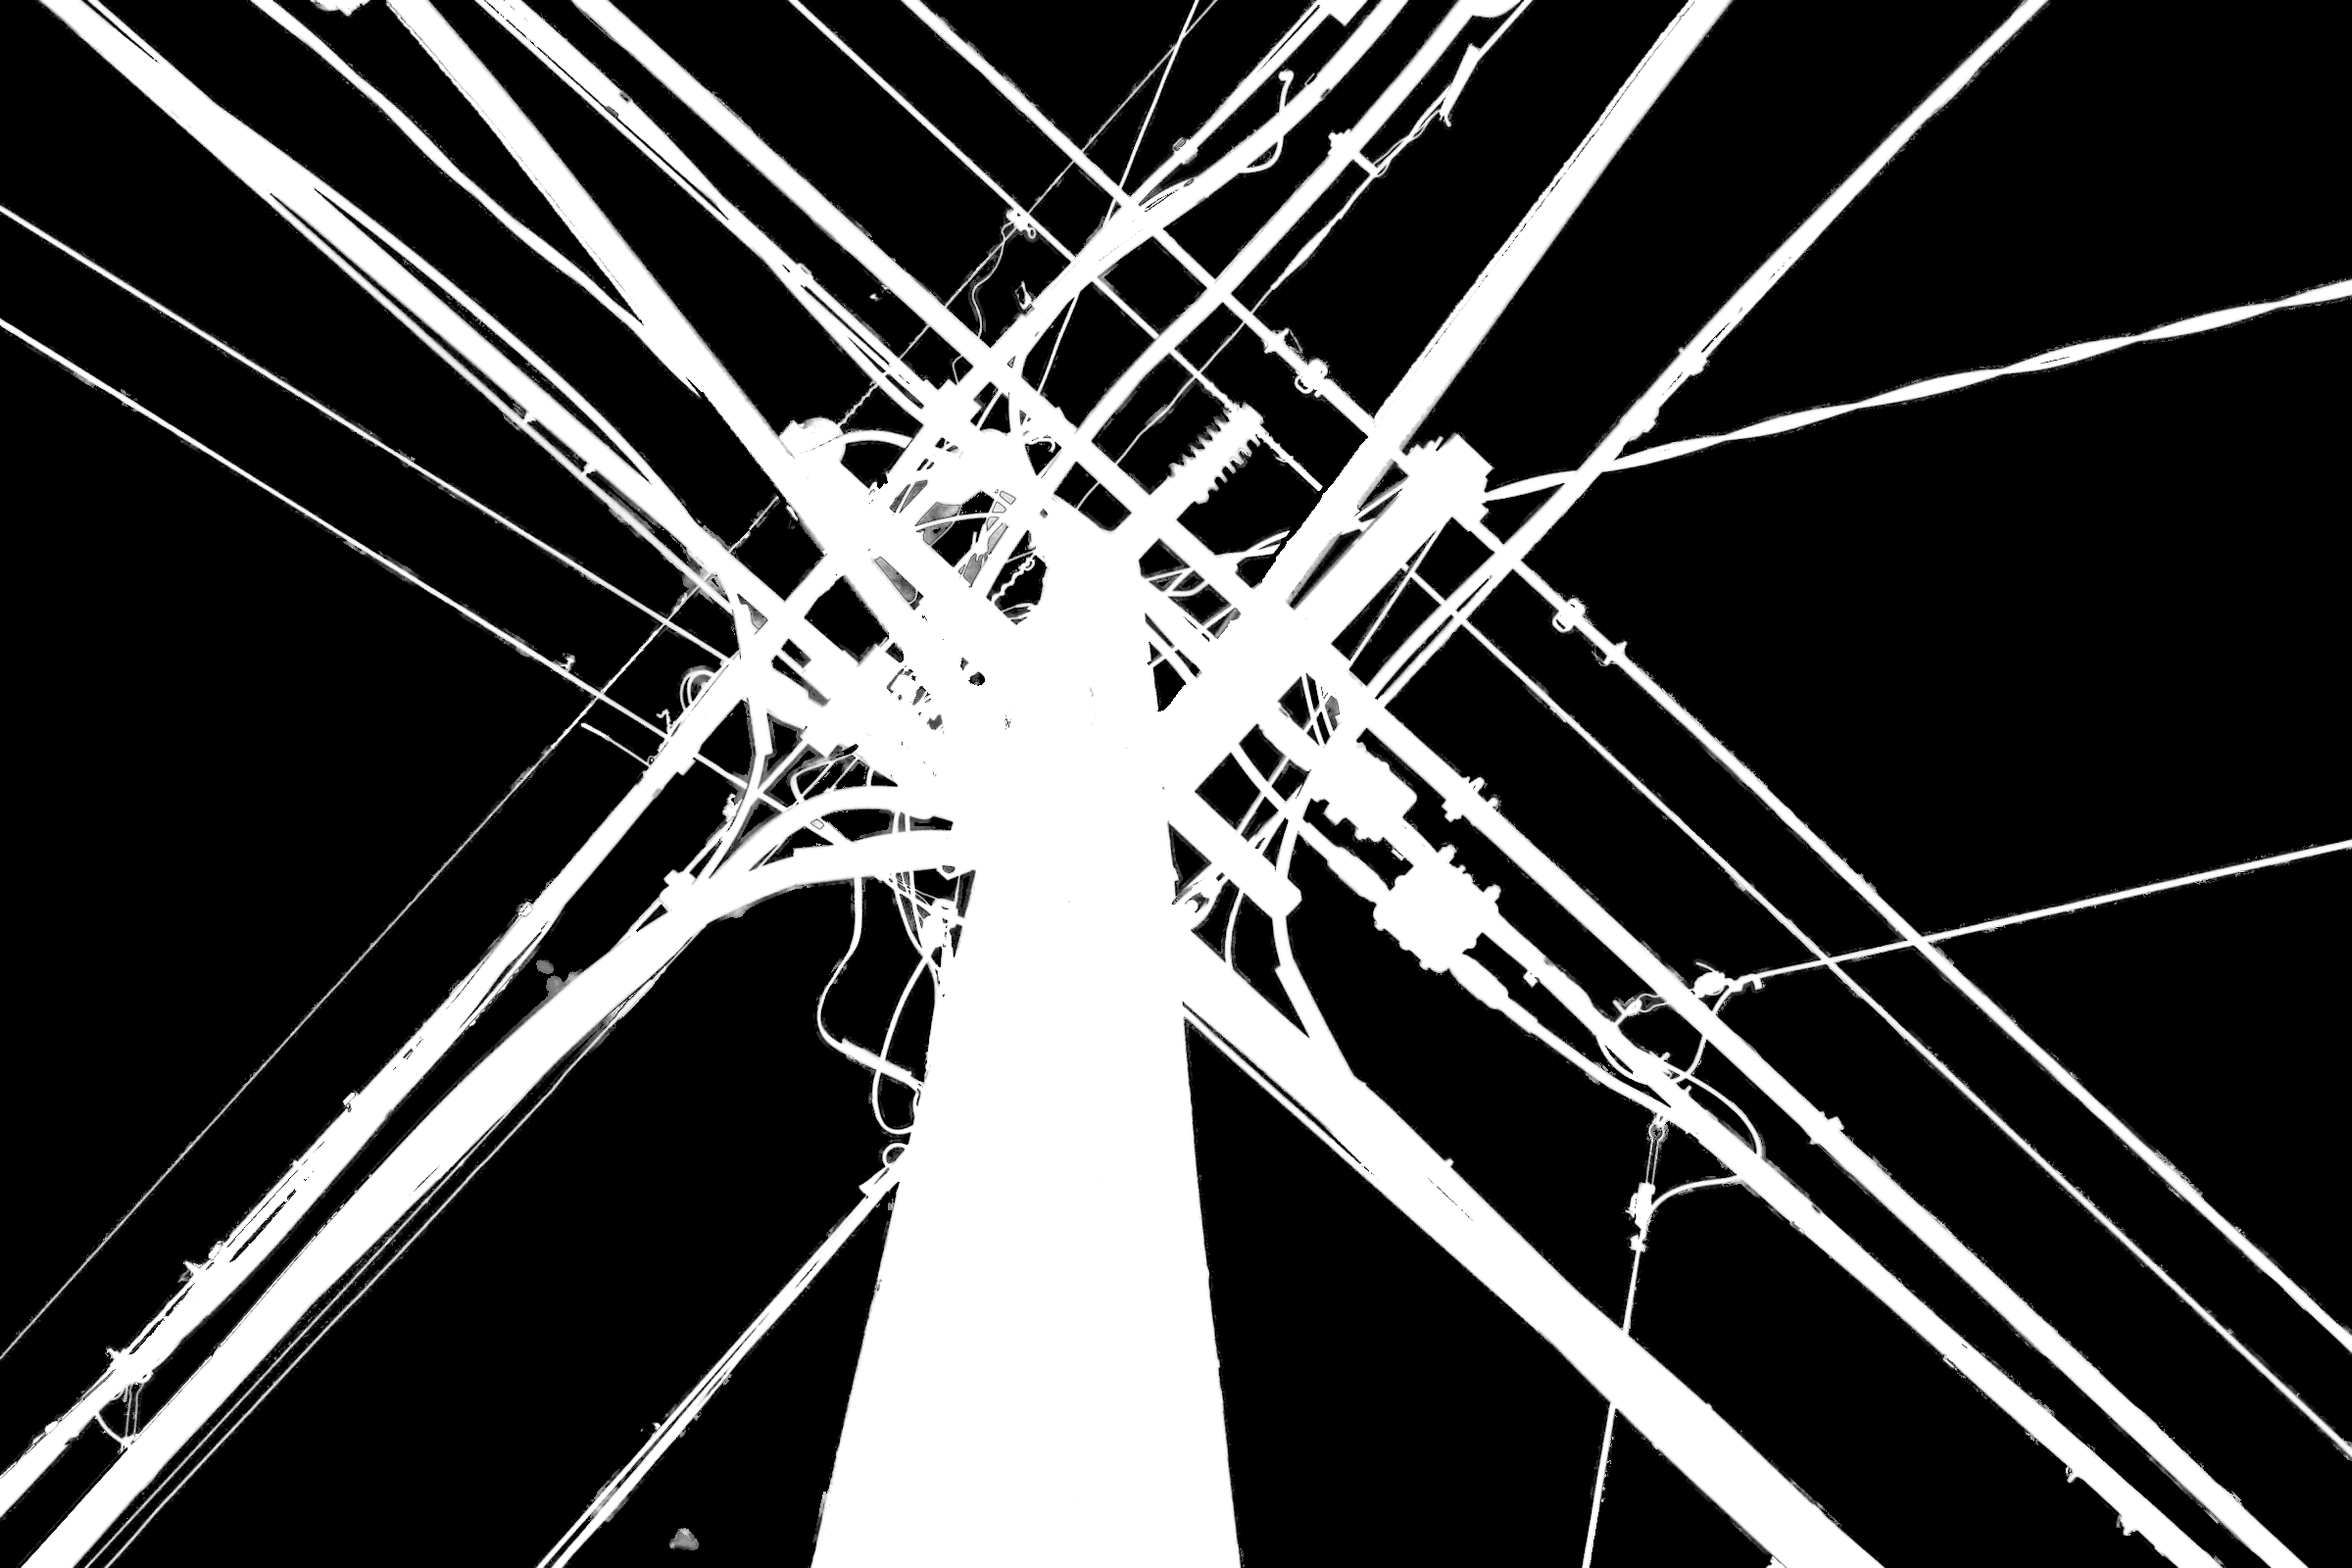
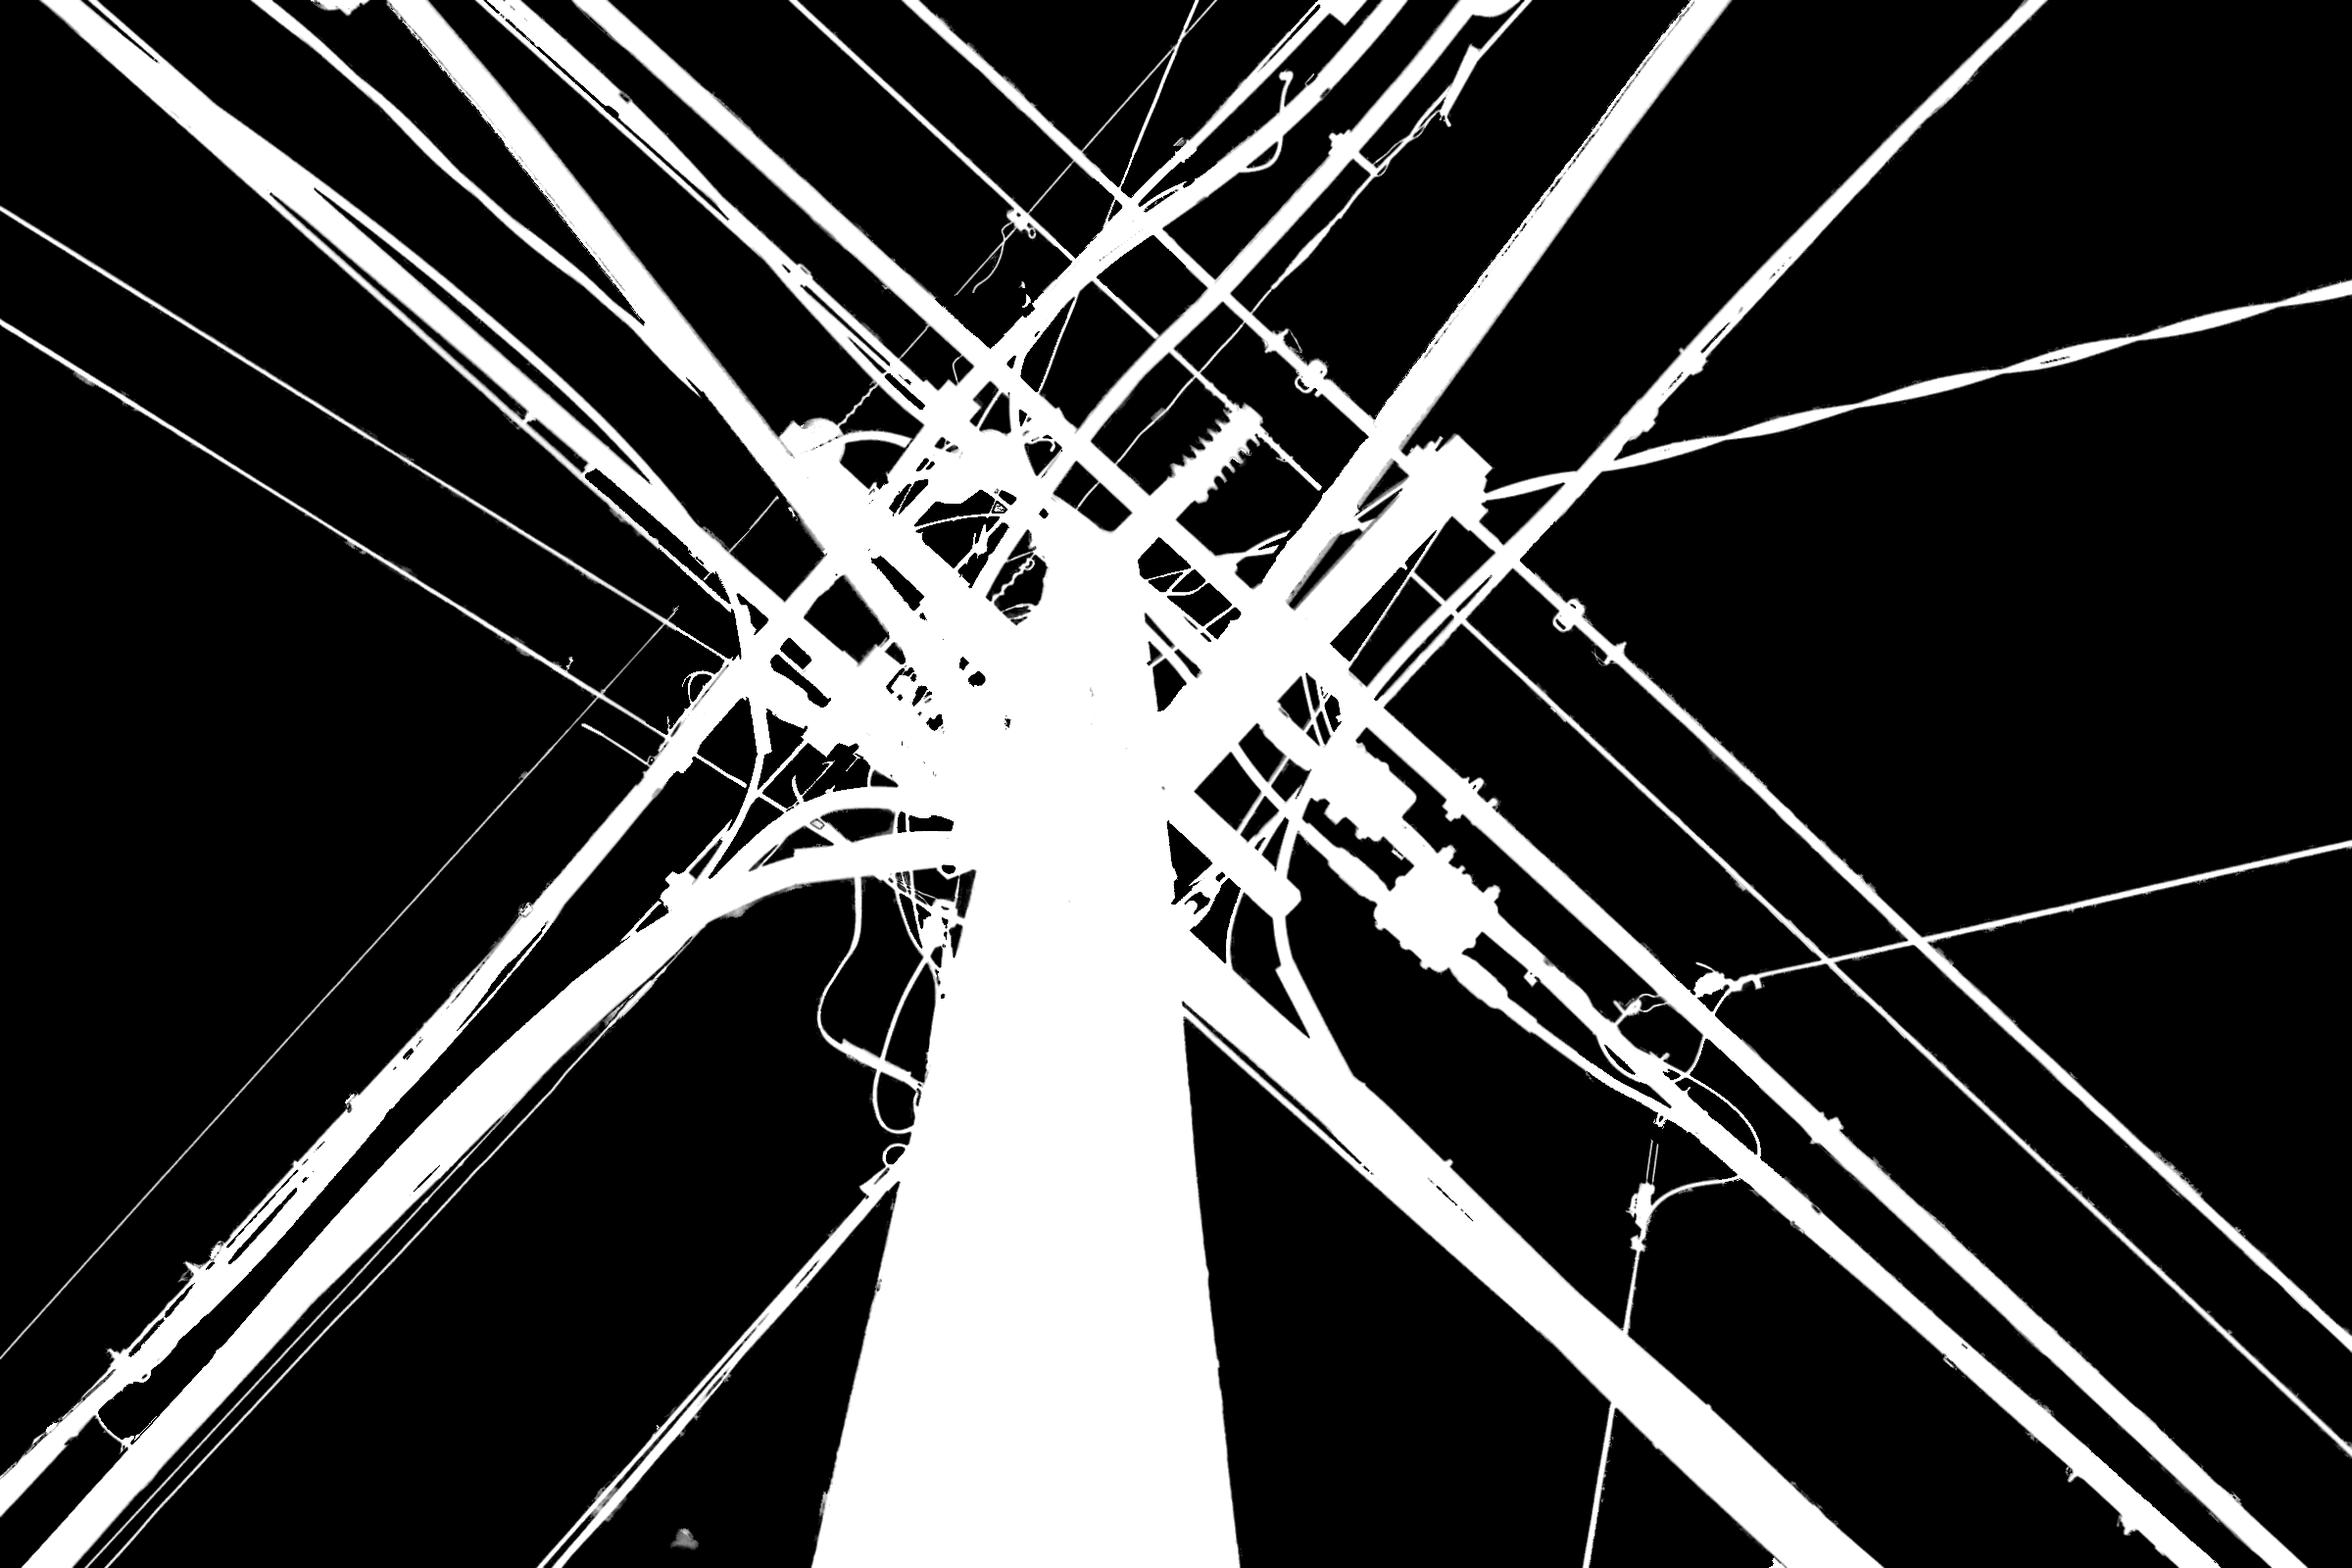
Lab: climb develop round 3
Claude-Session: https://claude.ai/code/session_01RqENhngNCzDFmJWDZueXGV

diff --git a/tools/depth/bakes/develop/bake.py b/tools/depth/bakes/develop/bake.py
@@ -48,7 +48,9 @@ Layers (2400x1600):
                  (I - B).(F - B) / |F - B|^2, with B the fill and F the local
                  structure colour (from dark core pixels only); the depth map
               decides only where to look; islands and sky-bright
-              "structure" dropped
+              "structure" dropped. --sky rewrites it cleaned
+              (clean_structure: floored at 0.15, choked, the knot's
+              slivers of sky dropped)
               key.png B, G: sky key, 0 far .. 1 near, 16 bit (B high byte,
                  G low): cloud density blurred to the scale of the masses, a
                  third distance by elevation, rank-equalised over the open
@@ -480,10 +482,12 @@ def write_sky_key(path, sky_key, key_r8):
 # reads as blurred blobs between the wires. --sky <photo> puts a photographed
 # cumulus sky behind the structure instead (SKY_SRC, CC0), graded to the same
 # radial cobalt, and leaves the structure, its matte and its depth key exactly
-# as they are: the structure is plate - (1 - alpha) * fill, premultiplied,
-# taken from the layers as first shipped (kept in WK as orig-*.webp), and the
-# new plate is that over the new sky. The sky key is measured again from the
-# new cloud.
+# as they are: the structure, premultiplied, is taken out of the photograph
+# against its own sky and cleaned (clean_structure: decontaminated, the matte
+# choked, the knot's slivers dropped), from the matte as first shipped (kept
+# in WK as orig-alpha.png with the other orig-* layers; OUT's alpha.png is
+# rewritten cleaned), and the new plate is that over the new sky. The sky key
+# is measured again from the new cloud.
 #
 # The cloud is graded as cumulus in sun is lit, as volumes (_cumulus_light):
 # each tower split by a large-radius optical depth towards the zenith and by
@@ -1176,17 +1180,192 @@ if "--reach" in sys.argv:
     sys.exit(0)
 
 
+# --- the structure layer, cleaned ----------------------------------------
+# plate - (1 - alpha) x fill takes the structure out against the LaMa fill,
+# which a few pixels into the matte is not the sky that was there: every
+# soft edge kept a share of the old pale cerulean (cyan outlines round each
+# cable, laid over the new cobalt), the faint tail of the matte drew ghost
+# wires across the open sky, and the sky cells between the crossarm members
+# that the matte half-covered came through as white and cyan slivers. So:
+#  1. each soft pixel is decontaminated against the photograph's own sky
+#     round it (B_orig: a normalised convolution of the clear pixels, fine
+#     to coarse, in log light), F = (I - (1 - a) B_orig) / a, and F is held
+#     inside the colour range of the opaque structure round it (per channel,
+#     and no bluer), so no sky is carried into the layer;
+#  2. the matte is choked: alpha under CLEAN_FLOOR goes to 0 and the rest is
+#     stretched back to 1, and the edges of members wider than a cable pair
+#     are pulled in by about a pixel;
+#  3. inside the knot, islands of matte under CLEAN_MIN_AREA px and soft
+#     cells whose decontaminated colour is bluer or lighter than the steel
+#     round them (sky seen between members) are dropped.
+CLEAN_FLOOR = 0.15
+CLEAN_MIN_AREA = 40
+CLEAN_MIN_SPECK = 12
+CLEAN_KNOT_SIGMA, CLEAN_KNOT_LEVEL = 40, 0.4
+
+
+def _orig_sky(I, alpha):
+    """The photograph's own sky round the structure (linear): normalised
+    convolution of its clear pixels, coarse to fine, in log light."""
+    clear = ~(cv2.dilate(_u8(alpha > 0.01), disk(2)) > 0)
+    kf = clear.astype(np.float32)
+    lg = np.log(np.maximum(I, 1e-4)).astype(np.float32)
+    B = None
+    for sg in (96, 48, 24, 12, 6, 3, 1.5):
+        num = cv2.GaussianBlur(lg * kf[..., None], (0, 0), sg)
+        den = cv2.GaussianBlur(kf, (0, 0), sg)
+        est = num / np.maximum(den, 1e-6)[..., None]
+        if B is None:
+            B = est
+            continue
+        k = np.clip(den / 0.25, 0, 1)[..., None]
+        B = B * (1 - k) + est * k
+    return np.where(clear[..., None], I, np.exp(B)).astype(np.float32)
+
+
+def _local_range(v, solid, radii=(3, 8), far=None):
+    """Per pixel, the min and max of v (HxW) over the solid pixels within the
+    first radius that finds any; past the last, 0 .. far (HxW)."""
+    lo = np.full(v.shape, np.nan, np.float32)
+    hi = np.full(v.shape, np.nan, np.float32)
+    big = np.float32(1e4)
+    for r in radii:
+        k = disk(r)
+        mx = cv2.dilate(np.where(solid, v, -big).astype(np.float32), k)
+        mn = -cv2.dilate(np.where(solid, -v, -big).astype(np.float32), k)
+        got = (mx > -big / 2) & np.isnan(hi)
+        hi[got], lo[got] = mx[got], mn[got]
+    rest = np.isnan(hi)
+    hi[rest] = far[rest]
+    lo[rest] = np.minimum(0.0, far[rest])
+    return lo, hi
+
+
+def clean_structure(I, alpha, luma, say=print):
+    """I: the photograph (linear, as the matte was pulled from); alpha: the
+    matte. Returns (pm, alpha): the premultiplied structure and its matte."""
+    h, w = alpha.shape
+    B = _orig_sky(I, alpha)
+    a3 = alpha[..., None]
+    Fu = (I - (1 - a3) * B) / np.maximum(a3, 1e-3)
+    Fu = np.where(a3 >= 0.98, I, Fu)
+    # the opaque structure's colour range round each pixel
+    solid = cv2.erode(_u8(alpha >= 0.95), disk(1)) > 0
+    solid |= alpha >= 0.995
+    blu = I[..., 2] - 0.5 * (I[..., 0] + I[..., 1])
+    Y = I @ luma
+    # (a wire with no opaque core of its own, far from any: no lighter than
+    # the structure's own colour pushed out to it, a shade over)
+    Floc = pushpull(I, solid.astype(np.float32)) * 1.25
+    F = np.empty_like(Fu)
+    for c in range(3):
+        lo, hi = _local_range(I[..., c], solid, far=Floc[..., c])
+        F[..., c] = np.clip(Fu[..., c], lo, hi)
+    _, bhi = _local_range(blu, solid, far=np.maximum(Floc[..., 2] - 0.5 * (Floc[..., 0] + Floc[..., 1]), 0.0))
+    _, yhi = _local_range(Y, solid, far=Floc @ luma)
+    # no bluer than the steel round it: pulled to a grey of its own light
+    fb = F[..., 2] - 0.5 * (F[..., 0] + F[..., 1])
+    g = (F @ luma)[..., None]
+    over = np.maximum(fb - np.maximum(bhi, 0.0), 0)
+    t = np.clip(over / np.maximum(fb, 1e-5), 0, 1)[..., None]
+    F = F * (1 - t) + g * t
+    # and no lighter
+    fy = F @ luma
+    F = F * np.minimum(1.0, yhi / np.maximum(fy, 1e-5))[..., None]
+    F = np.where(a3 >= 0.98, I, F)
+
+    # A wire too thin to have an opaque core of its own was matted as near
+    # opaque in its own blended colour (a two-pixel wire against white cloud
+    # reads as a light grey, opaque): over the cobalt that is a pale ghost
+    # line. Where a thin member is darker than the sky behind it, it is
+    # matted again as the dark steel round it over that sky (its alpha the
+    # share of the way from B_orig to that steel), so it keeps its weight
+    # and none of the sky's light.
+    wide = cv2.morphologyEx(_u8(alpha > 0.5), cv2.MORPH_OPEN, disk(2))
+    wide = cv2.dilate(wide, disk(3)) > 0
+    Fd = pushpull(I, (solid & (Y < 0.1)).astype(np.float32))
+    dFB = Fd - B
+    a_t = np.clip(((I - B) * dFB).sum(2) / np.maximum((dFB * dFB).sum(2), 1e-5), 0, 1)
+    thin = (alpha > 0) & ~wide & ((I - B) @ luma < 0.03)
+    alpha = np.where(thin, a_t, alpha).astype(np.float32)
+    F = np.where(thin[..., None], np.minimum(Fd, F), F)
+    a3 = alpha[..., None]
+
+    # what the solve says is sky, not steel: lighter or bluer than the
+    # opaque structure round it, by a margin
+    fuy = Fu @ luma
+    fub = Fu[..., 2] - 0.5 * (Fu[..., 0] + Fu[..., 1])
+    skyish = (alpha < 0.98) & ((fuy > np.maximum(yhi * 1.5, yhi + 0.06)) | (fub > np.maximum(bhi, 0) + 0.06))
+
+    # 2. the choke
+    a = np.clip((alpha - CLEAN_FLOOR) / (0.97 - CLEAN_FLOOR), 0, 1).astype(np.float32)
+    wide = cv2.morphologyEx(_u8(alpha > 0.5), cv2.MORPH_OPEN, disk(2))
+    wide = cv2.dilate(wide, disk(3)) > 0
+    ero = cv2.erode(a, cv2.getStructuringElement(cv2.MORPH_CROSS, (3, 3)))
+    a = np.where(wide & (a < 1), np.minimum(a, 0.5 * (a + ero)), a).astype(np.float32)
+    a = np.where(a < 0.02, 0.0, a).astype(np.float32)
+
+    # 3. the knot's slivers
+    dens = cv2.GaussianBlur(alpha, (0, 0), CLEAN_KNOT_SIGMA)
+    knot = cv2.dilate(_u8(dens > CLEAN_KNOT_LEVEL), disk(30)) > 0
+    soft = (a > 0) & (alpha < 0.9)
+    n, lab, st, _ = cv2.connectedComponentsWithStats(_u8(soft & knot), connectivity=8)
+    frac = np.bincount(lab.ravel(), weights=skyish.ravel().astype(np.float64), minlength=n) / np.maximum(st[:, cv2.CC_STAT_AREA], 1)
+    drop_c = frac > 0.5
+    drop_c[0] = False
+    drop = drop_c[lab]
+    a = np.where(drop, 0.0, a).astype(np.float32)
+    # The matte's outer rim called opaque over the sky (F = I there): sky in
+    # colour, light and blue, within a few pixels of the open sky. (A shiny
+    # tag on the pole that mirrors the sky is as blue, but deep inside.)
+    fy, fb = F @ luma, F[..., 2] - 0.5 * (F[..., 0] + F[..., 1])
+    rim = cv2.distanceTransform(_u8(alpha > 0), cv2.DIST_L2, 3) <= 3
+    rim_sky = (a > 0) & rim & (fb > 0.08) & (fy > 0.12)
+    a = np.where(rim_sky, 0.0, a).astype(np.float32)
+    n, lab, st, _ = cv2.connectedComponentsWithStats(_u8(a > 0), connectivity=8)
+    area = st[:, cv2.CC_STAT_AREA]
+    tiny = area < CLEAN_MIN_AREA
+    tiny[0] = False
+    # specks the size of a few pixels are noise anywhere; in the knot,
+    # anything under CLEAN_MIN_AREA is a sliver of sky between members
+    tiny_px = tiny[lab] & (knot | (area < CLEAN_MIN_SPECK)[lab])
+    # and an island of matte that is sky in colour (light and blue, on the
+    # whole) is a matte error over the sky, whatever its size
+    wsum = np.maximum(np.bincount(lab.ravel(), weights=a.ravel(), minlength=n), 1e-6)
+    my = np.bincount(lab.ravel(), weights=(a * fy).ravel(), minlength=n) / wsum
+    mb = np.bincount(lab.ravel(), weights=(a * fb).ravel(), minlength=n) / wsum
+    blue_isle = (area < 2000) & (mb > 0.06) & (my > 0.1)
+    blue_isle[0] = False
+    tiny_px |= blue_isle[lab]
+    a = np.where(tiny_px, 0.0, a).astype(np.float32)
+    say("clean: soft px", int(((alpha > 0) & (alpha < 0.98)).sum()), "floored", int(((alpha > 0) & (alpha < CLEAN_FLOOR)).sum()),
+        "skyish", int(skyish.sum()), "knot cells dropped", int(drop_c.sum()), "px", int(drop.sum()),
+        "rim sky px", int(rim_sky.sum()), "islands px", int(tiny_px.sum()))
+    pm = (F * a[..., None]).astype(np.float32)
+    return pm, a
+
+
 if "--sky" in sys.argv:
-    alpha = cv2.imread(os.path.join(OUT, "alpha.png"), cv2.IMREAD_GRAYSCALE).astype(np.float32) / 255
     os.makedirs(WK, exist_ok=True)
-    for n in ("plate.webp", "fill.webp", "key.png"):
+    for n in ("plate.webp", "fill.webp", "key.png", "alpha.png"):
         if not os.path.exists(os.path.join(WK, "orig-" + n)):
             import shutil
             shutil.copyfile(os.path.join(OUT, n), os.path.join(WK, "orig-" + n))
-    plate0 = _read_lin(os.path.join(WK, "orig-plate.webp"))
-    fill0 = _read_lin(os.path.join(WK, "orig-fill.webp"))
+    # the matte as first shipped (OUT's alpha.png is the cleaned one)
+    alpha0 = cv2.imread(os.path.join(WK, "orig-alpha.png"), cv2.IMREAD_GRAYSCALE).astype(np.float32) / 255
+    # The structure, cleaned (clean_structure), from the photograph itself
+    # when it is at hand (the matte was pulled from it, at this crop and
+    # size), else from the plate as first shipped.
+    if os.path.exists(SRC):
+        _x0, _y0, _cw, _ch = CROP
+        _bgr = cv2.imread(SRC, cv2.IMREAD_COLOR)[_y0:_y0 + _ch, _x0:_x0 + _cw]
+        I0 = s2l(cv2.resize(_bgr, (W, H), interpolation=cv2.INTER_AREA)[:, :, ::-1].astype(np.float32) / 255)
+    else:
+        print("sky: no source photograph; cleaning the structure from orig-plate.webp")
+        I0 = _read_lin(os.path.join(WK, "orig-plate.webp"))
+    pm, alpha = clean_structure(I0, alpha0, LUMA)
+    save8(os.path.join(OUT, "alpha.png"), alpha)
     a3 = alpha[..., None]
-    pm = np.minimum(np.maximum(plate0 - (1 - a3) * fill0, 0), a3) * (a3 > 0.004)
     srcs = [s_.split(":")[0] for s_ in SKY_SRCS.split(",")] if SKY_SRCS else [SKY_SRC]
     if all(os.path.exists(p_) for p_ in srcs):
         raw, S_known = _sky_lookup(SKY_SRCS) if SKY_SRCS else (_sky_window(SKY_SRC), None)
@@ -1208,7 +1387,8 @@ if "--sky" in sys.argv:
     key0 = cv2.imread(os.path.join(WK, "orig-key.png"), cv2.IMREAD_COLOR)
     write_sky_key(os.path.join(OUT, "key.png"), sky_key_of(sky, alpha), key0[:, :, 2])
     save8(os.path.join(WK, "p-sky.png"), l2s(sky)[:, :, ::-1])
-    print("sky: wrote plate.webp, fill.webp, key.png")
+    save8(os.path.join(WK, "p-fg.png"), l2s(pm + (1 - a3) * np.array([0.6, 0.0, 0.6], np.float32))[:, :, ::-1])
+    print("sky: wrote plate.webp, fill.webp, key.png, alpha.png")
     sys.exit(0)
 
 
